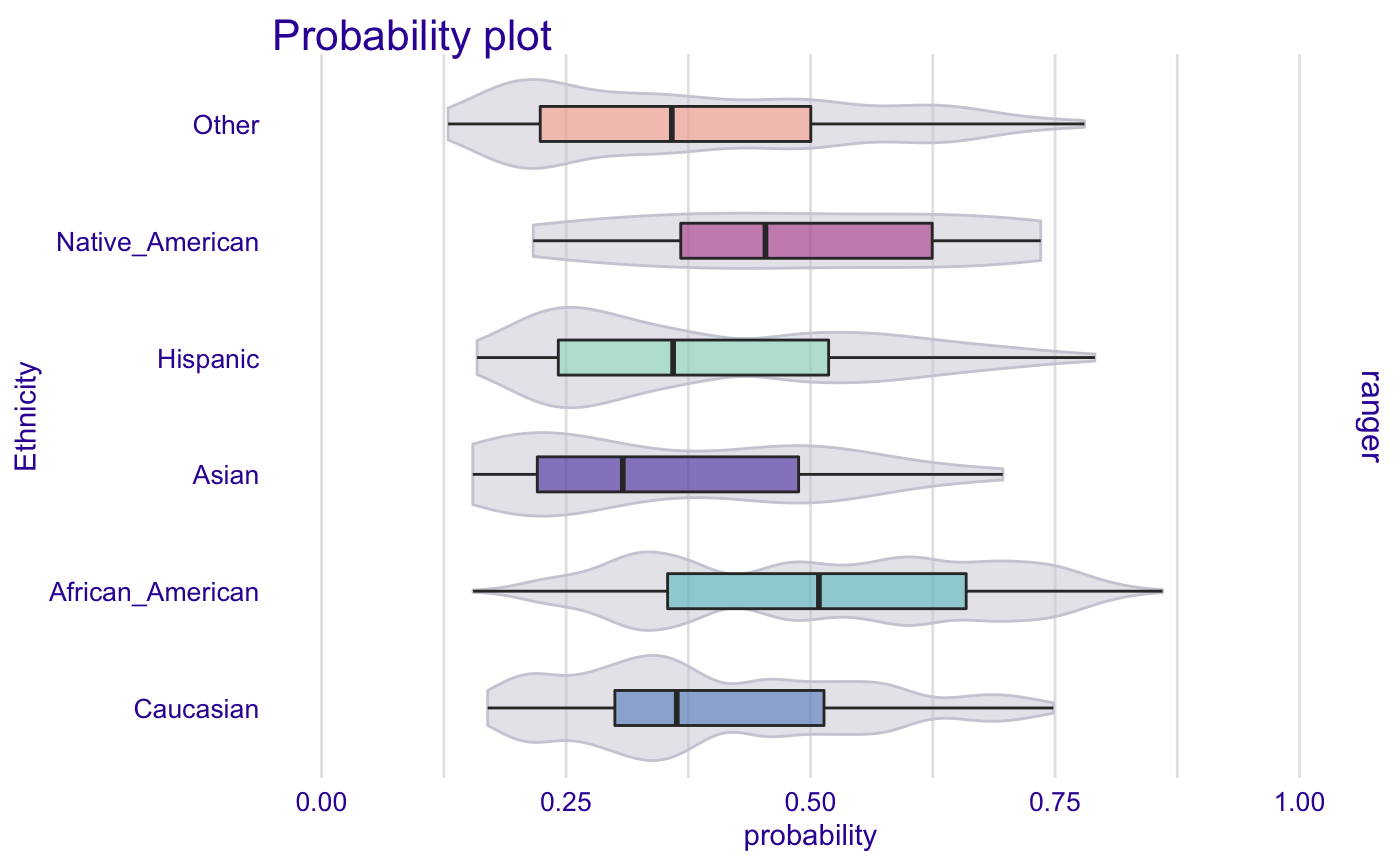
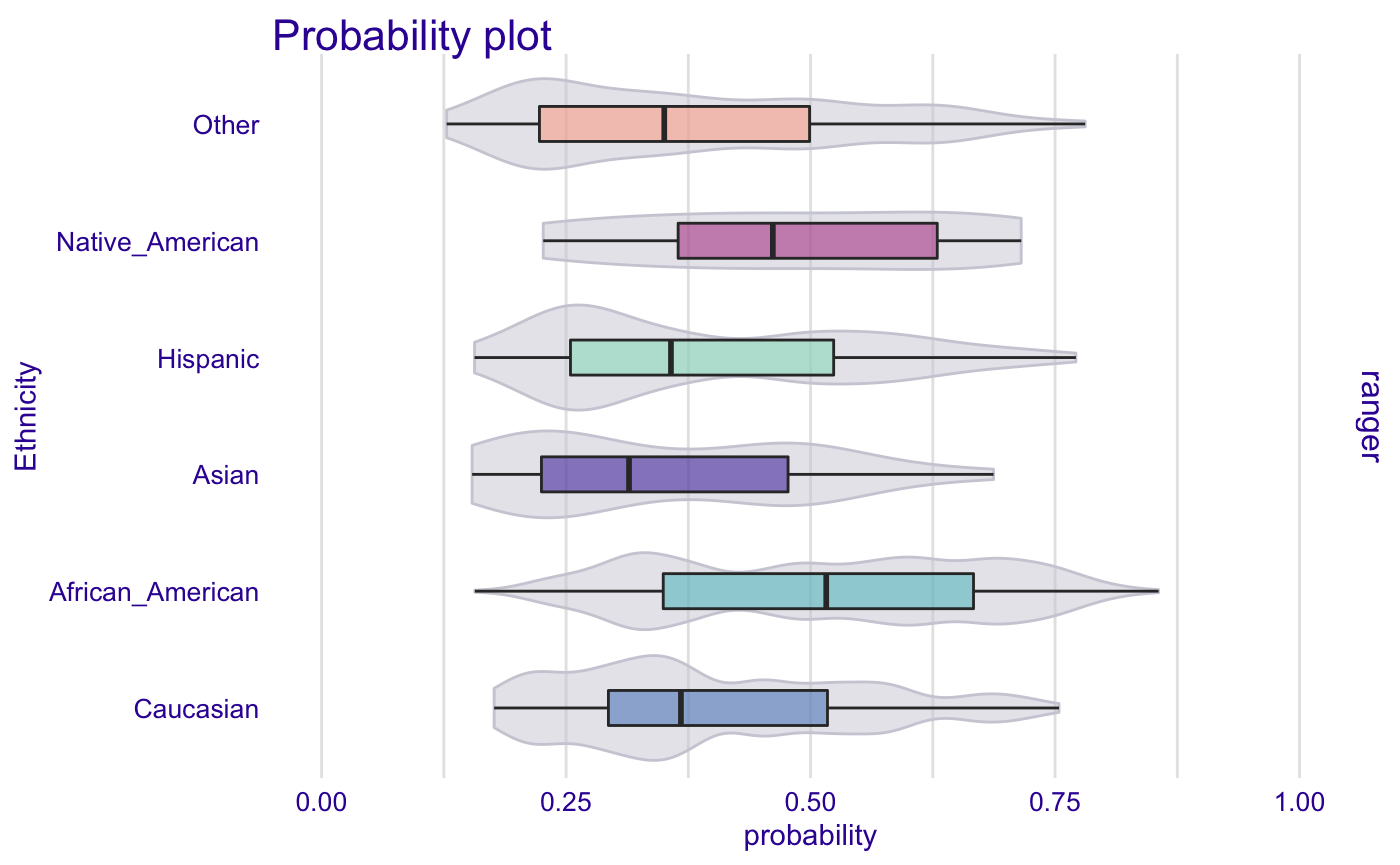
Built site for fairmodels: 0.1.0@fabec47

diff --git a/reference/ceteris_paribus_cutoff.html b/reference/ceteris_paribus_cutoff.html
@@ -234,7 +234,7 @@ Position corresponding to subgroups in levels will be changed. Deafult NULL</p><
 <span class='no'>cpc</span> <span class='kw'>&lt;-</span> <span class='fu'>ceteris_paribus_cutoff</span>(<span class='no'>fobject</span>, <span class='kw'>subgroup</span> <span class='kw'>=</span> <span class='st'>"African_American"</span>,
                               <span class='kw'>cummulated</span> <span class='kw'>=</span> <span class='fl'>TRUE</span>,
                               <span class='kw'>fairness_metrics</span> <span class='kw'>=</span> <span class='fu'><a href='https://rdrr.io/r/base/c.html'>c</a></span>(<span class='st'>"TPR_parity_loss"</span>,<span class='st'>"PPV_parity_loss"</span>, <span class='st'>"TNR_parity_loss"</span> ))
-<span class='fu'><a href='https://rdrr.io/r/base/plot.html'>plot</a></span>(<span class='no'>cpc</span>)</div><div class='output co'>#&gt; [1] 2</div><div class='output co'>#&gt; <span class='warning'>Warning: Removed 51 row(s) containing missing values (geom_path).</span></div><div class='img'><img src='ceteris_paribus_cutoff-2.png' alt='' width='700' height='433' /></div><div class='input'>
+<span class='fu'><a href='https://rdrr.io/r/base/plot.html'>plot</a></span>(<span class='no'>cpc</span>)</div><div class='output co'>#&gt; <span class='warning'>Warning: Removed 51 row(s) containing missing values (geom_path).</span></div><div class='img'><img src='ceteris_paribus_cutoff-2.png' alt='' width='700' height='433' /></div><div class='input'>
 </div></span></pre>
   </div>
   <div class="col-md-3 hidden-xs hidden-sm" id="pkgdown-sidebar">

diff --git a/reference/plot_ceteris_paribus_cutoff.html b/reference/plot_ceteris_paribus_cutoff.html
@@ -203,7 +203,7 @@
 <span class='no'>cpc</span> <span class='kw'>&lt;-</span> <span class='fu'><a href='ceteris_paribus_cutoff.html'>ceteris_paribus_cutoff</a></span>(<span class='no'>fobject</span>, <span class='kw'>subgroup</span> <span class='kw'>=</span> <span class='st'>"African_American"</span>,
                               <span class='kw'>cummulated</span> <span class='kw'>=</span> <span class='fl'>TRUE</span>,
                               <span class='kw'>fairness_metrics</span> <span class='kw'>=</span> <span class='fu'><a href='https://rdrr.io/r/base/c.html'>c</a></span>(<span class='st'>"TPR_parity_loss"</span>,<span class='st'>"PPV_parity_loss"</span>, <span class='st'>"TNR_parity_loss"</span> ))
-<span class='fu'><a href='https://rdrr.io/r/base/plot.html'>plot</a></span>(<span class='no'>cpc</span>)</div><div class='output co'>#&gt; [1] 2</div><div class='output co'>#&gt; <span class='warning'>Warning: Removed 54 row(s) containing missing values (geom_path).</span></div><div class='img'><img src='plot_ceteris_paribus_cutoff-2.png' alt='' width='700' height='433' /></div><div class='input'>
+<span class='fu'><a href='https://rdrr.io/r/base/plot.html'>plot</a></span>(<span class='no'>cpc</span>)</div><div class='output co'>#&gt; <span class='warning'>Warning: Removed 54 row(s) containing missing values (geom_path).</span></div><div class='img'><img src='plot_ceteris_paribus_cutoff-2.png' alt='' width='700' height='433' /></div><div class='input'>
 
 </div></span></pre>
   </div>

diff --git a/articles/Basic_tutorial.html b/articles/Basic_tutorial.html
@@ -147,9 +147,9 @@
 #&gt;   -&gt; target variable   :  6172  values 
 #&gt;   -&gt; model_info        :  package ranger , ver. 0.12.1 , task classification ( [33m default [39m ) 
 #&gt;   -&gt; predict function  :  yhat.ranger  will be used ( [33m default [39m )
-#&gt;   -&gt; predicted values  :  numerical, min =  0.1294167 , mean =  0.4553916 , max =  0.8598906  
+#&gt;   -&gt; predicted values  :  numerical, min =  0.1278628 , mean =  0.4551884 , max =  0.855838  
 #&gt;   -&gt; residual function :  difference between y and yhat ( [33m default [39m )
-#&gt;   -&gt; residuals         :  numerical, min =  -0.7932853 , mean =  -0.0002717469 , max =  0.8454954  
+#&gt;   -&gt; residuals         :  numerical, min =  -0.7914023 , mean =  -6.854642e-05 , max =  0.8455595  
 #&gt;  [32m A new explainer has been created! [39m</code></pre>
 <p>Than we create <code>fairness_object</code> with <code><a href="../reference/create_fairness_object.html">create_fairness_object()</a></code></p>
 <div class="sourceCode" id="cb6"><html><body><pre class="r"><span class="no">fobject</span> <span class="kw">&lt;-</span> <span class="fu"><a href="../reference/create_fairness_object.html">create_fairness_object</a></span>(<span class="no">rf_explainer</span>,
